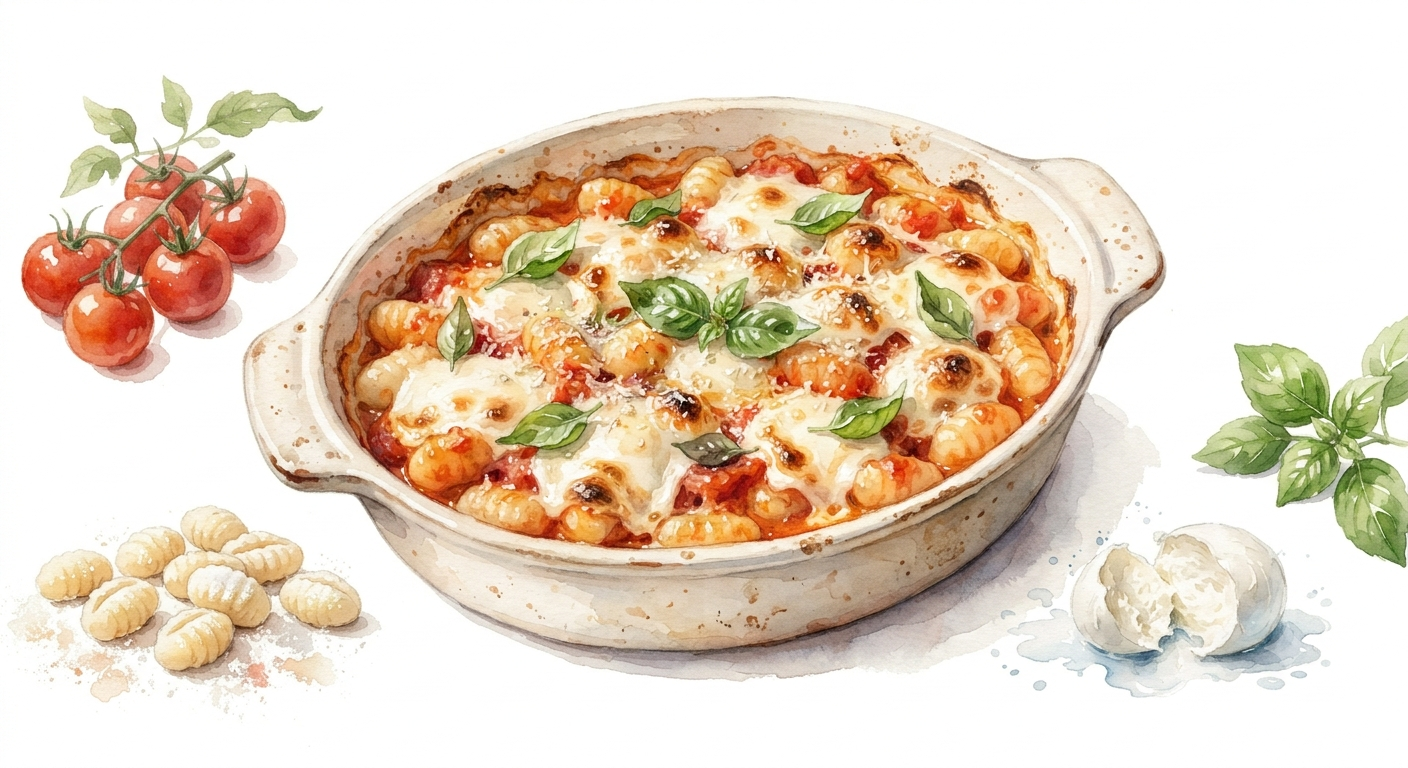
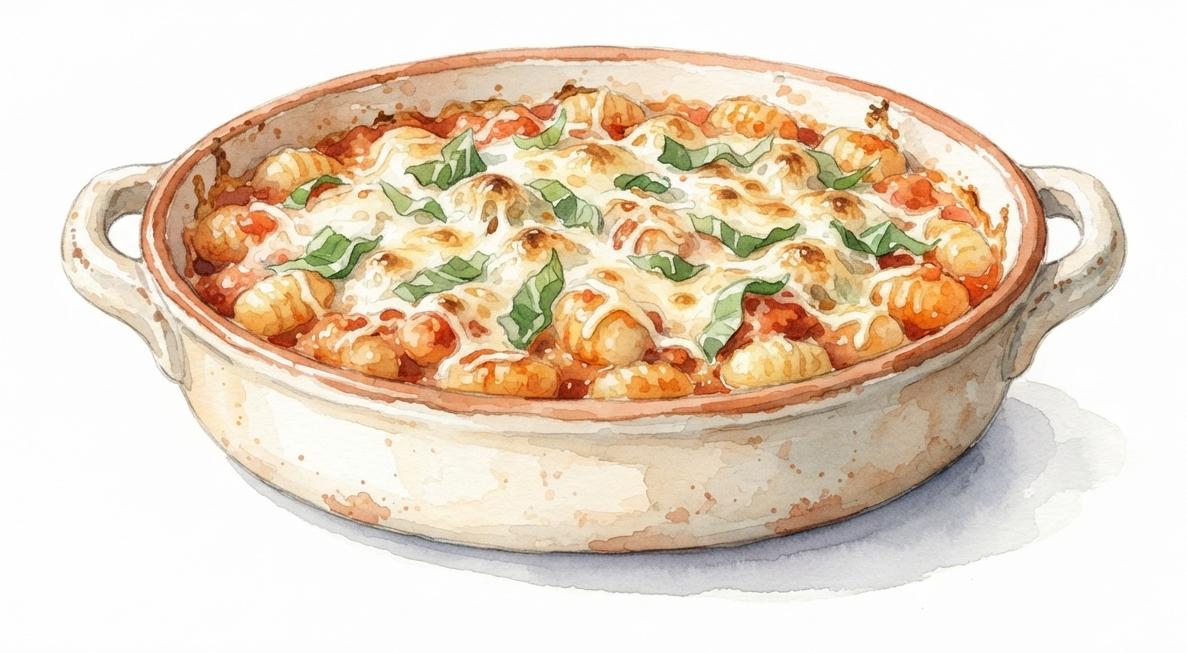
Add margin ingredients image to gnocchi sorrentina, update hero
Crop the finished-dish illustration tighter around the gratin dish and
add a new watercolor ingredients illustration in the margin next to the
intro.

diff --git a/recipes/gnocchi-sorrentina.tex b/recipes/gnocchi-sorrentina.tex
@@ -8,6 +8,8 @@
 
 \meta{45 minuten \dvd Oven 200\,°C}
 
+\marginimage{images/gnocchi-sorrentina-ingredienten}
+
 \lettrine{E}{en} klassieker uit Zuid-Italië, uit de omgeving van Sorrento.
 Gnocchi met een eenvoudige tomatensaus, verse mozzarella en basilicum, kort
 gegratineerd in de oven tot de kaas smelt. Uit de oven is de mozzarella nog
